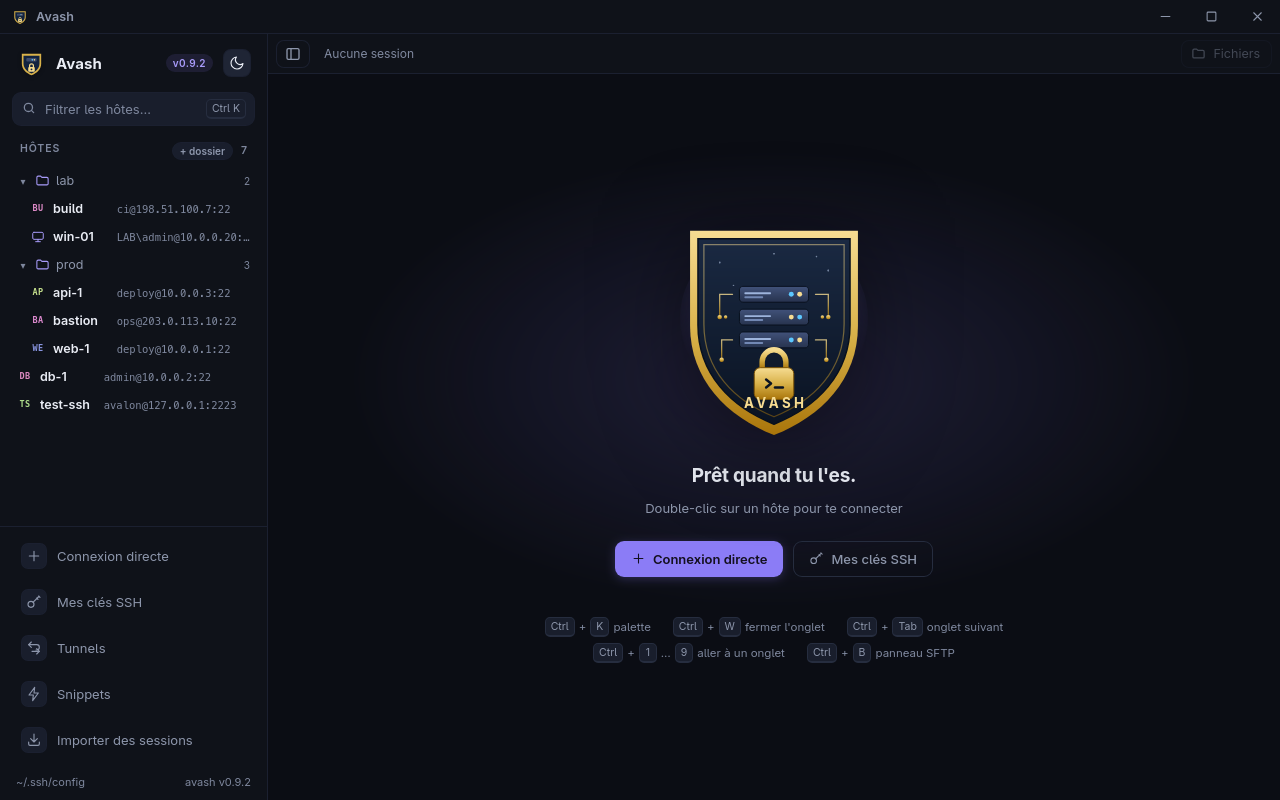
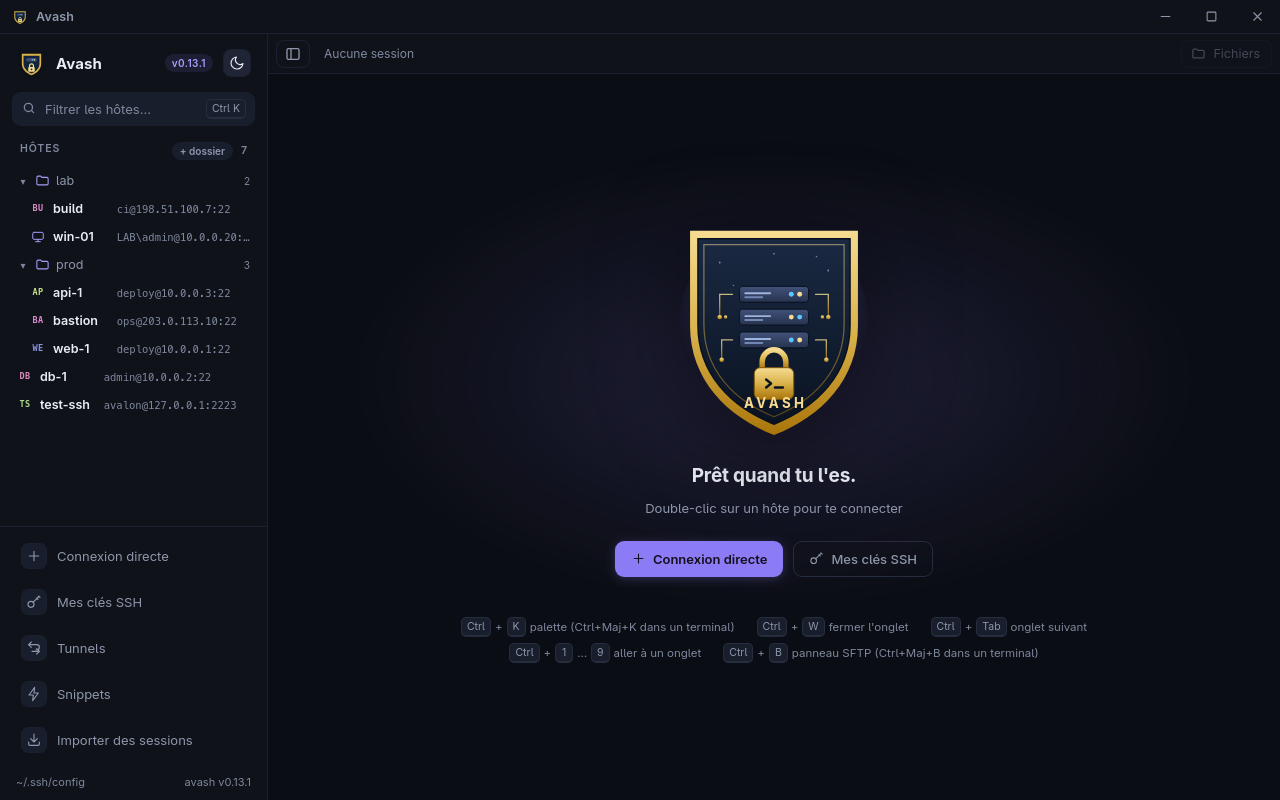
docs(readme): raccourcis Ctrl+Maj+B/K et captures de la 0.13.1
Depuis la 0.13.0, Ctrl+B et Ctrl+K restent au shell distant quand un
terminal a le focus (préfixe tmux, effacement readline) ; le panneau SFTP et
la palette s'y ouvrent par Ctrl+Maj+B et Ctrl+Maj+K. Les deux README
annonçaient encore Ctrl+B et Ctrl+K sans nuance, dans « Premier lancement »
comme dans le tableau des raccourcis, et ne disaient pas que fermer un
onglet vivant demande confirmation.

Captures refaites par scripts/captures-readme.sh sur le binaire 0.13.1 :
elles montraient encore la 0.9.2 (barre latérale, aide-mémoire de
l'accueil). La vue du bureau RDP et la démonstration animée, qui demandent
un bureau Windows joignable, restent celles d'avant ; la démonstration
régénérée sans lui aurait perdu sa partie Windows, que son texte annonce.

Claude-Session: https://claude.ai/code/session_01JHczA8QyYimcpvLKCgLZku

Changed region(s): [[0.375, 0.7812, 0.8438, 0.8438], [0.1562, 0.9688, 0.1875, 1.0], [0.125, 0.0625, 0.1562, 0.0938]]

diff --git a/README.md b/README.md
@@ -133,10 +133,10 @@ enchaîne validation, construction et empreintes.
 ### Premier lancement, en trois gestes
 
 1. Vos hôtes de `~/.ssh/config` sont déjà dans la barre latérale ; **double-clic**
-   pour ouvrir un terminal, `Ctrl+B` pour le panneau de fichiers.
+   pour ouvrir un terminal, `Ctrl+Maj+B` pour le panneau de fichiers.
 2. **Connexion directe** pour un serveur SSH ou un bureau RDP qui n'y est pas
    encore ; cochez « enregistrer » et il y reste, au format d'OpenSSH.
-3. `Ctrl+K` pour tout le reste : hôtes, tunnels, snippets, langue, santé des
+3. `Ctrl+Maj+K` pour tout le reste : hôtes, tunnels, snippets, langue, santé des
    hôtes, enregistrements. Le mot de passe, une seule fois : il va au trousseau.
 
 ## Au quotidien
@@ -147,11 +147,14 @@ enchaîne validation, construction et empreintes.
 
 | Raccourci | Action |
 |---|---|
-| `Ctrl+K` | Palette de commandes : hôtes, actions, langue, santé, enregistrements |
-| `Ctrl+W` · `Ctrl+Tab` · `Ctrl+1`…`9` | Fermer, suivant, aller à un onglet |
-| `Ctrl+B` | Panneau de fichiers (SFTP) |
+| `Ctrl+Maj+K` | Palette de commandes : hôtes, actions, langue, santé, enregistrements |
+| `Ctrl+W` · `Ctrl+Tab` · `Ctrl+1`…`9` | Fermer (confirmation si la session est ouverte), suivant, aller à un onglet |
+| `Ctrl+Maj+B` | Panneau de fichiers (SFTP) |
 | `Ctrl+Maj+E` | Vue partagée : deux onglets côte à côte |
 | `↑` `↓` `Entrée` `Maj+F10` | La barre latérale entière au clavier |
+
+Hors d'un terminal, `Ctrl+K` et `Ctrl+B` suffisent ; dans un terminal, ils
+restent au shell distant (préfixe tmux, effacement de fin de ligne readline).
 
 <div align="center">
 <img src="docs/captures/sftp.png" alt="Le panneau SFTP à côté du terminal : un dossier de sauvegardes, un transfert terminé dans la file" width="880">

diff --git a/README.en.md b/README.en.md
@@ -134,10 +134,10 @@ runs validation, build and checksums in one go.
 ### First launch, in three moves
 
 1. Your hosts from `~/.ssh/config` are already in the sidebar; **double-click**
-   to open a terminal, `Ctrl+B` for the file panel.
+   to open a terminal, `Ctrl+Shift+B` for the file panel.
 2. **Direct connection** for an SSH server or an RDP desktop that is not there
    yet; tick "save" and it stays, in OpenSSH's own format.
-3. `Ctrl+K` for everything else: hosts, tunnels, snippets, language, host
+3. `Ctrl+Shift+K` for everything else: hosts, tunnels, snippets, language, host
    health, recordings. The password, once: it goes to the keyring.
 
 ## Day to day
@@ -148,11 +148,14 @@ runs validation, build and checksums in one go.
 
 | Shortcut | Action |
 |---|---|
-| `Ctrl+K` | Command palette: hosts, actions, language, health, recordings |
-| `Ctrl+W` · `Ctrl+Tab` · `Ctrl+1`…`9` | Close, next, go to a tab |
-| `Ctrl+B` | File panel (SFTP) |
+| `Ctrl+Shift+K` | Command palette: hosts, actions, language, health, recordings |
+| `Ctrl+W` · `Ctrl+Tab` · `Ctrl+1`…`9` | Close (asks first if the session is live), next, go to a tab |
+| `Ctrl+Shift+B` | File panel (SFTP) |
 | `Ctrl+Shift+E` | Split view: two tabs side by side |
 | `↑` `↓` `Enter` `Shift+F10` | The whole sidebar from the keyboard |
+
+Outside a terminal, `Ctrl+K` and `Ctrl+B` are enough; inside one, they stay
+with the remote shell (tmux prefix, readline's kill to end of line).
 
 <div align="center">
 <img src="docs/captures/sftp.png" alt="The SFTP panel next to the terminal: a backups folder, a finished transfer in the queue" width="880">
